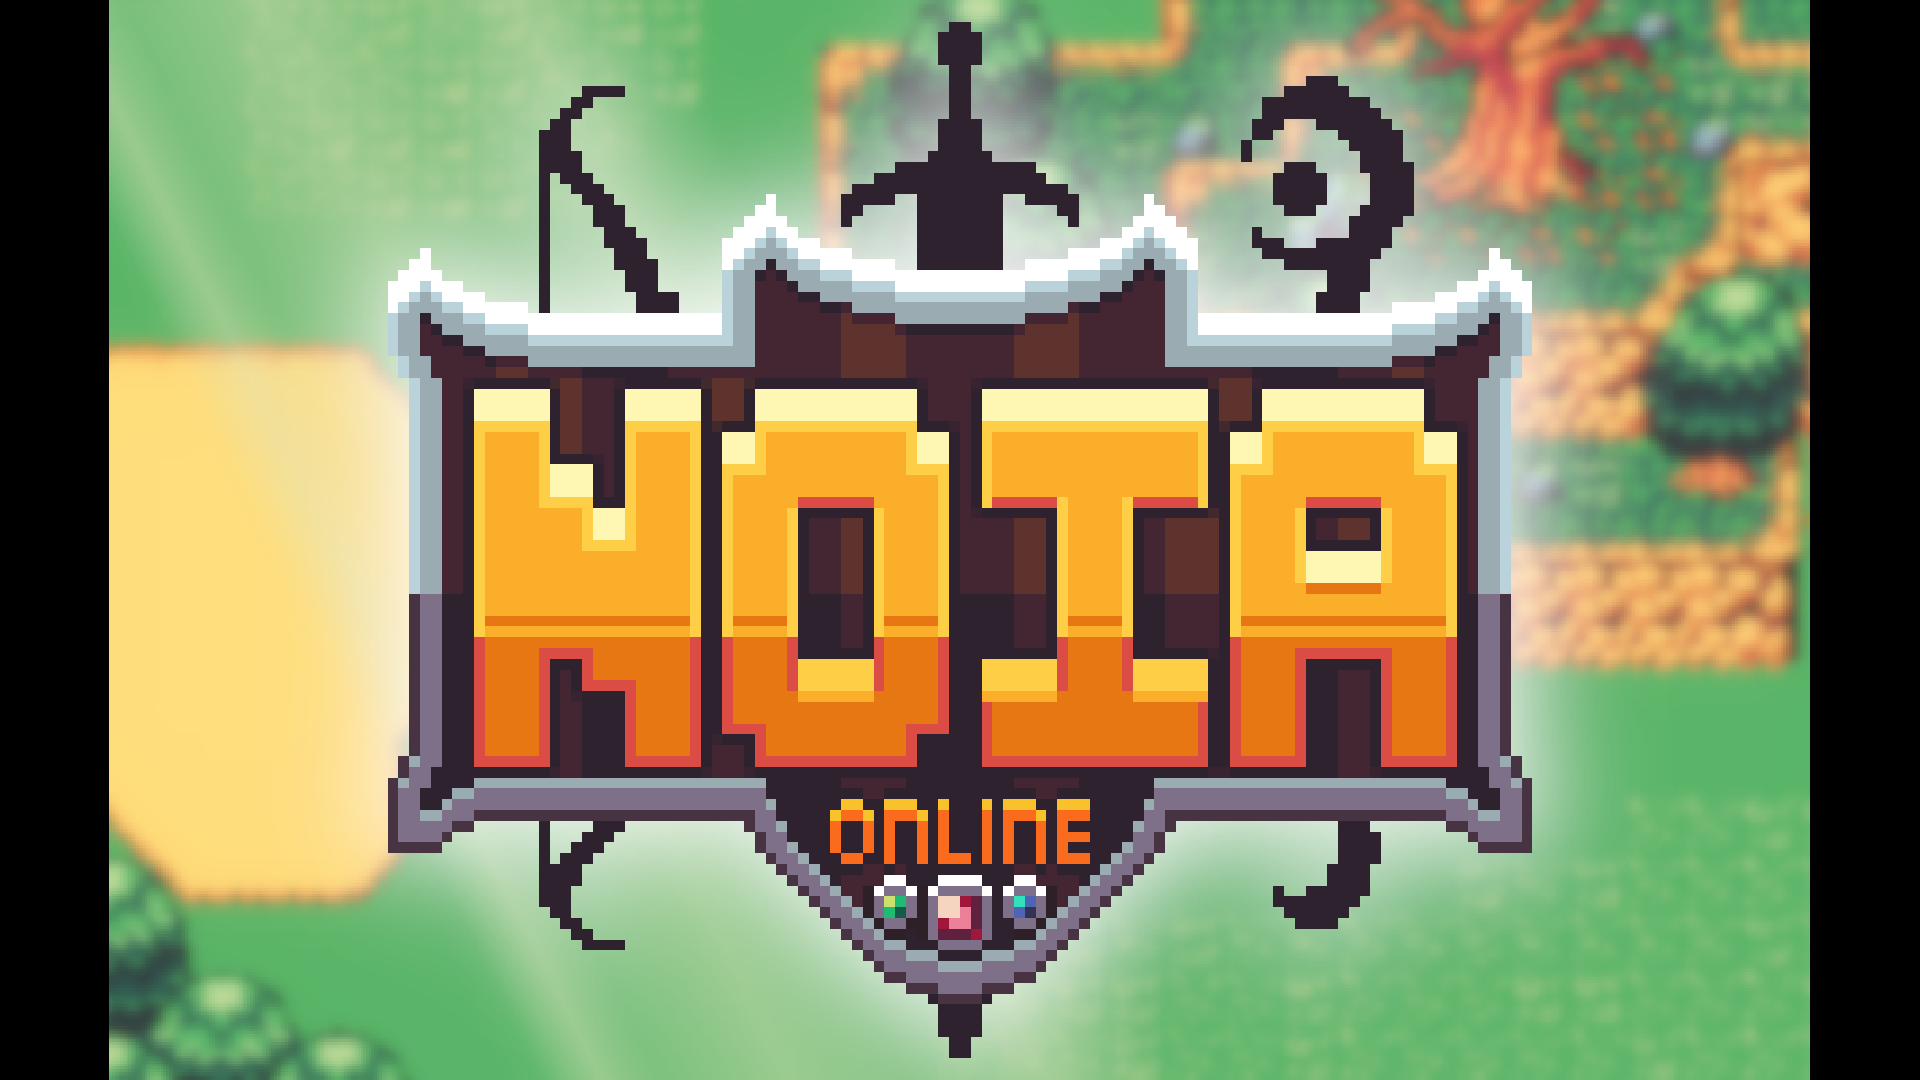
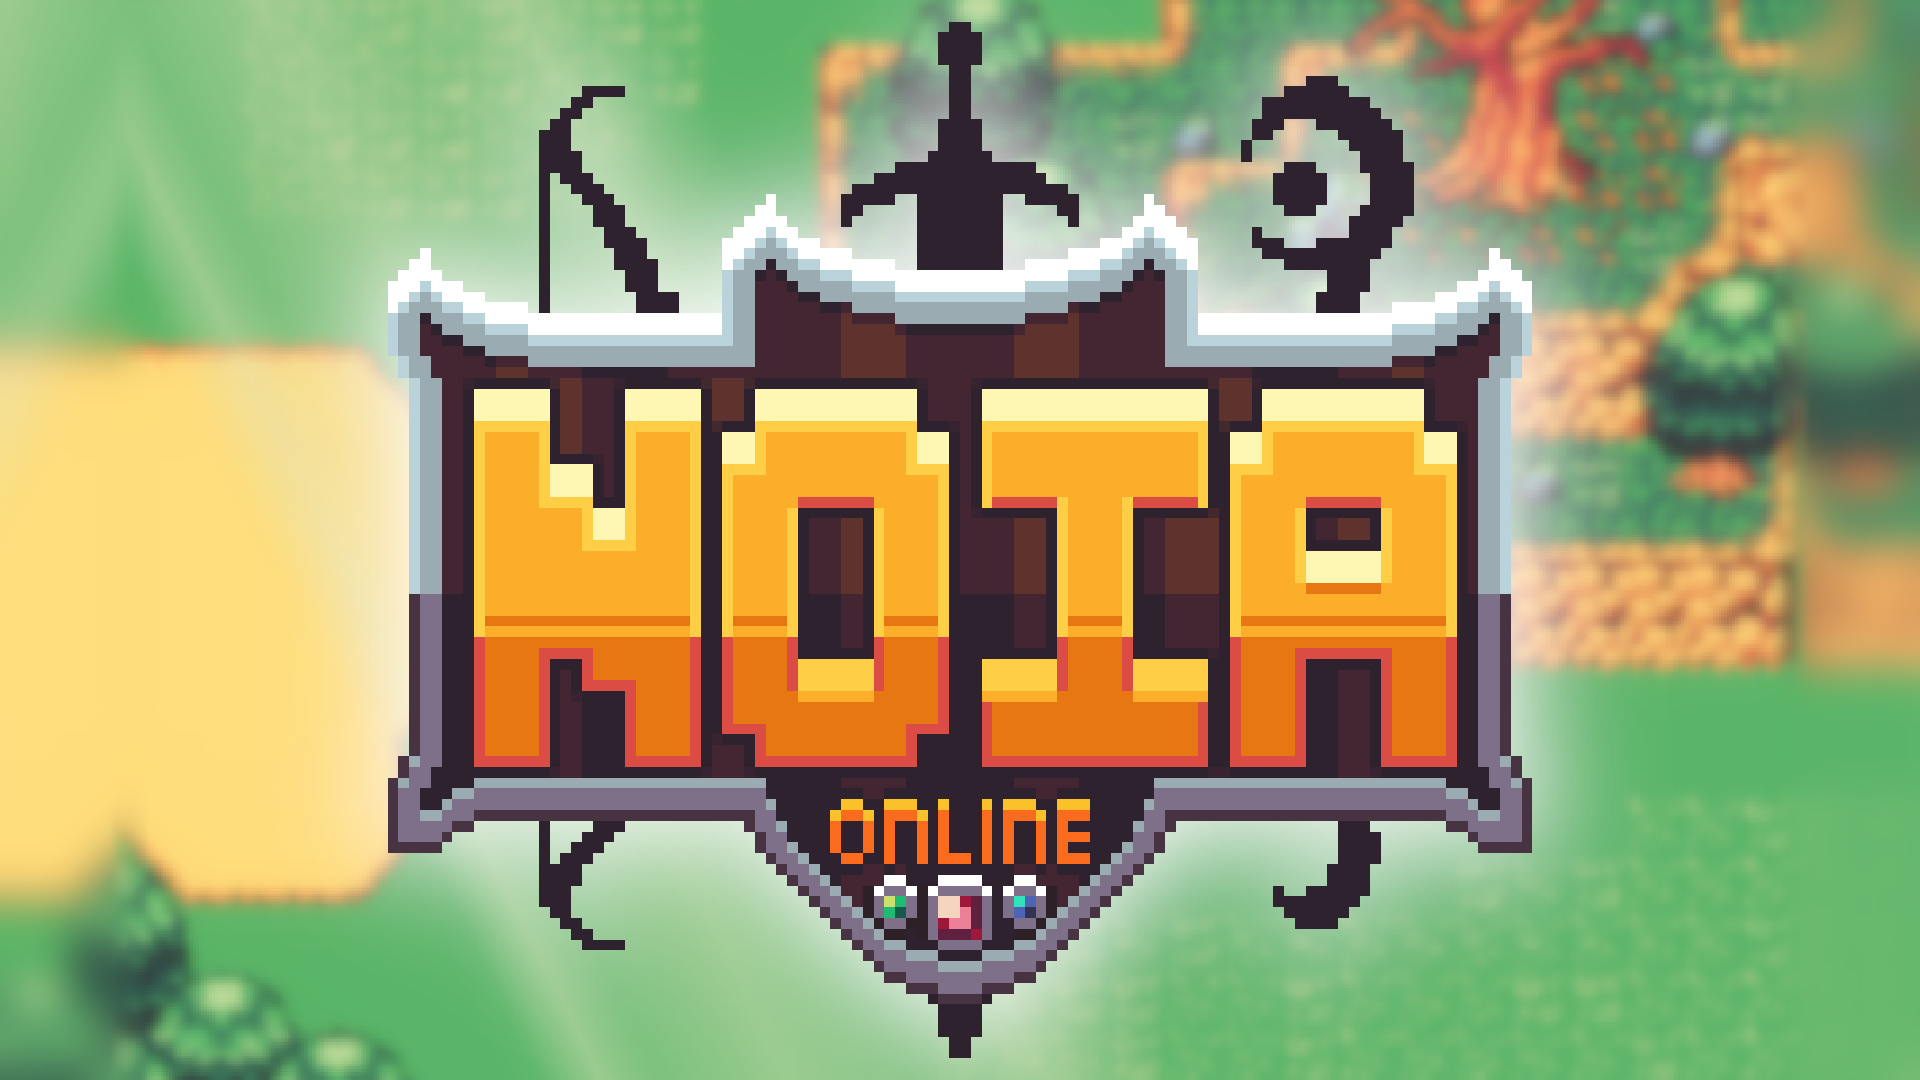
y

Changed region(s): [[0.9062, 0.0, 1.0, 1.0], [0.0, 0.0, 0.0625, 1.0]]

diff --git a/press.html b/press.html
@@ -54,12 +54,12 @@
       <h2>Factsheet</h2>
       <dl class="fact"><dt>DEVELOPER</dt><dd>Splosions</dd><dd class="soft">Based in Phoenix, Az</dd></dl>
       <dl class="fact"><dt>RELEASE</dt><dd>Open Alpha playable now</dd><dd>Steam Early Access - TBD</dd></dl>
-      <dl class="fact"><dt>PLATFORMS</dt><dd>Windows, Linux, Android, Web browser (<a href="https://splosions-studios.itch.io/noia-online" target="_blank" rel="noopener">itch.io</a>)</dd><dd></dd></dl>
+      <dl class="fact"><dt>PLATFORMS</dt><dd>Windows, Linux, Android, Web browser (<a href="https://splosions-studios.itch.io/noia-online" target="_blank" rel="noopener">itch.io</a>)</dd></dl>
       <dl class="fact"><dt>GENRE</dt><dd>2.5D pixel art MMORPG</dd></dl>
       <dl class="fact"><dt>PRICE</dt><dd>Free</dd></dl>
       <dl class="fact"><dt>WEBSITE</dt><dd><a href="index.html">noia-online.com</a></dd></dl>
       <dl class="fact"><dt>COMMUNITY</dt><dd><a href="https://www.youtube.com/@noiadev" target="_blank" rel="noopener">YouTube</a></dd><dd><a href="https://discord.gg/2FSC2yKGEd" target="_blank" rel="noopener">Discord</a></dd></dl>
-      <dl class="fact"><dt>PRESS CONTACT</dt><dd><a href="mailto:[press@noia-online.com]">press@noia-online.com</a></dd></dl>
+      <dl class="fact"><dt>PRESS CONTACT</dt><dd><a href="mailto:press@noia-online.com">press@noia-online.com</a></dd></dl>
     </aside>
 
     <div class="press-main">

diff --git a/assets/css/site.css b/assets/css/site.css
@@ -33,7 +33,9 @@ img, video { display: block; width: 100%; height: 100%; object-fit: cover; image
 .btn-grey { background: var(--line); color: #fff !important; box-shadow: inset 0 -4px 0 var(--panel); }
 
 /* Banner */
-.banner { position: relative; height: min(72vh, 720px); min-height: 420px; background: var(--panel); border-bottom: 3px solid var(--line); overflow: hidden; }
+.banner { background: var(--panel); border-bottom: 3px solid var(--line); }
+/* Always shows the whole 16:9 image/video: full width, but never taller than 85% of the screen */
+.banner-inner { width: min(100%, calc(85vh * 16 / 9)); aspect-ratio: 16 / 9; margin: 0 auto; overflow: hidden; }
 
 /* Sections */
 section.block { padding-top: 112px; }

diff --git a/index.html b/index.html
@@ -46,11 +46,11 @@
 <main>
 
   <!-- BANNER: assets/media/banner/ -->
-  <div class="banner">
+  <div class="banner"><div class="banner-inner">
     <video autoplay muted loop playsinline preload="auto" poster="assets/media/banner/posters/banner.png" aria-hidden="true">
       <source src="assets/media/banner/mp4/banner.mp4" type="video/mp4">
     </video>
-  </div>
+  </div></div>
 
   <!-- THE WORLD: assets/media/world/ -->
   <section class="block wrap" id="world">

diff --git a/meet-the-dev.html b/meet-the-dev.html
@@ -60,7 +60,7 @@
 
 <footer class="site-footer">
   <div class="wrap">
-    <div>© <span id="year">2026</span> [STUDIO NAME] · noia-online.com</div>
+    <div>© <span id="year">2026</span> Splosions Studios · noia-online.com</div>
     <nav aria-label="Footer">
       <a href="press.html">Press Kit</a>
       <a href="#">Contact</a>    <!-- TODO -->
